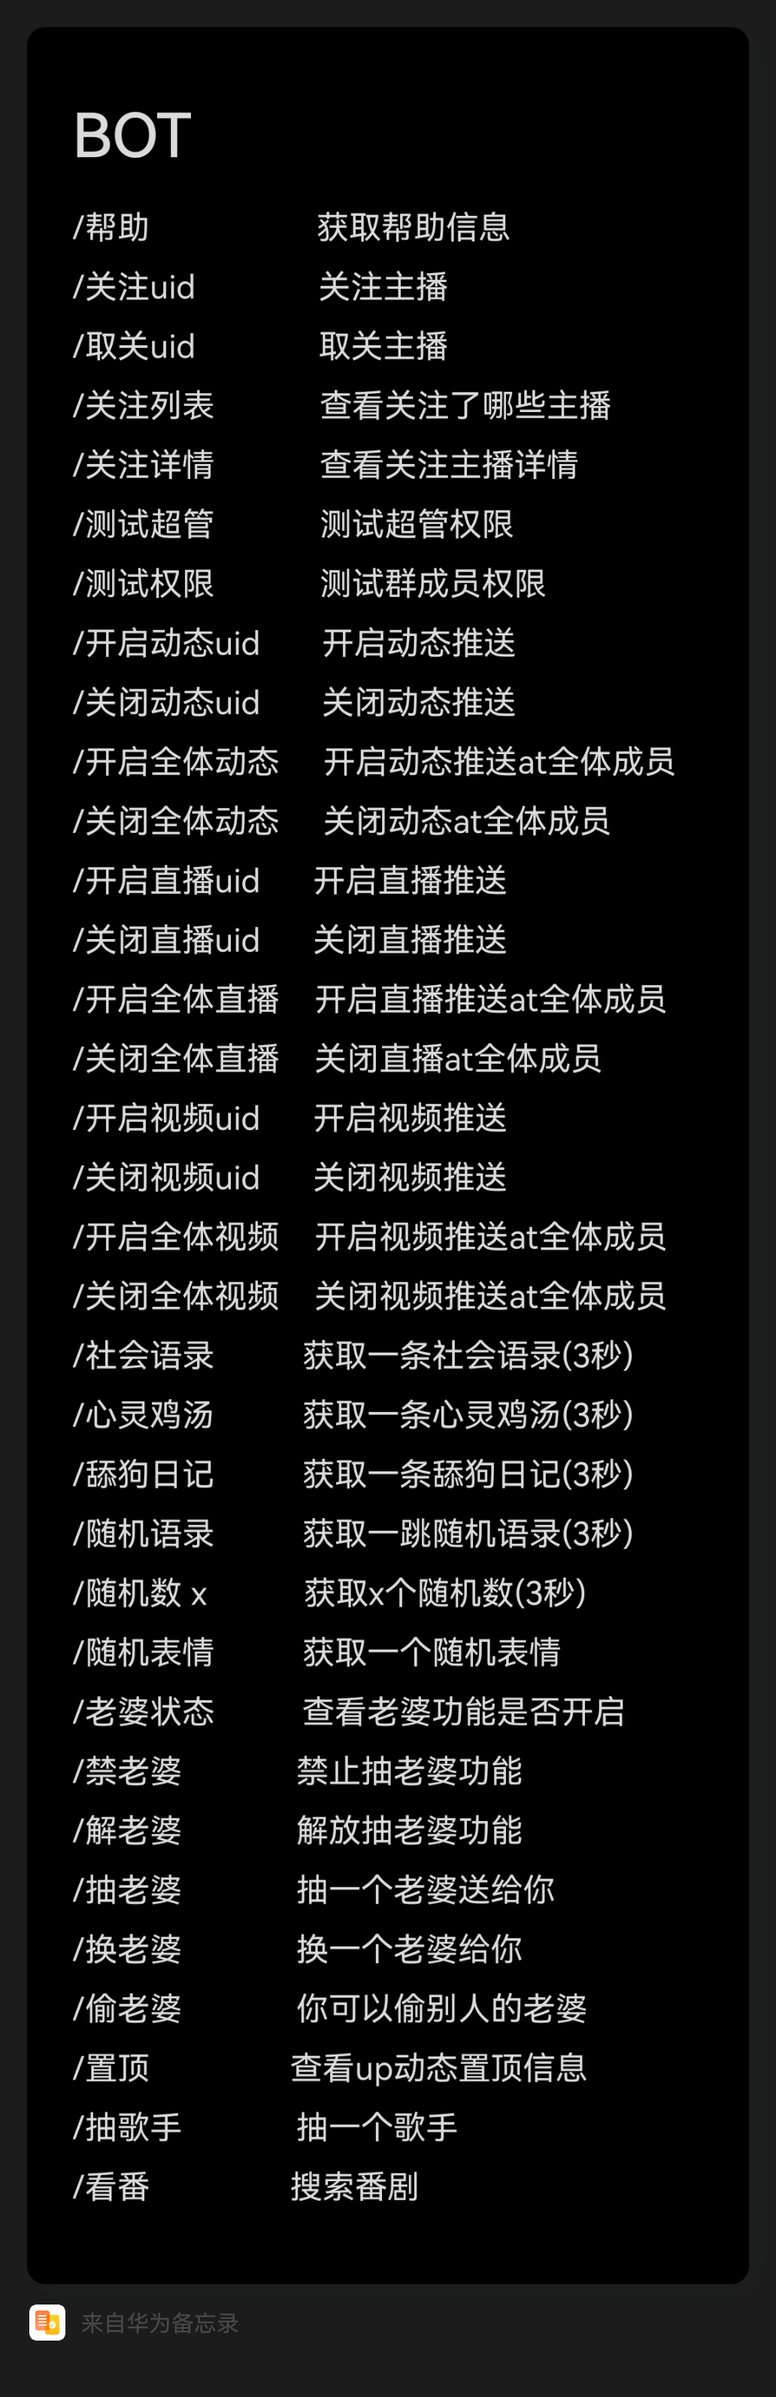
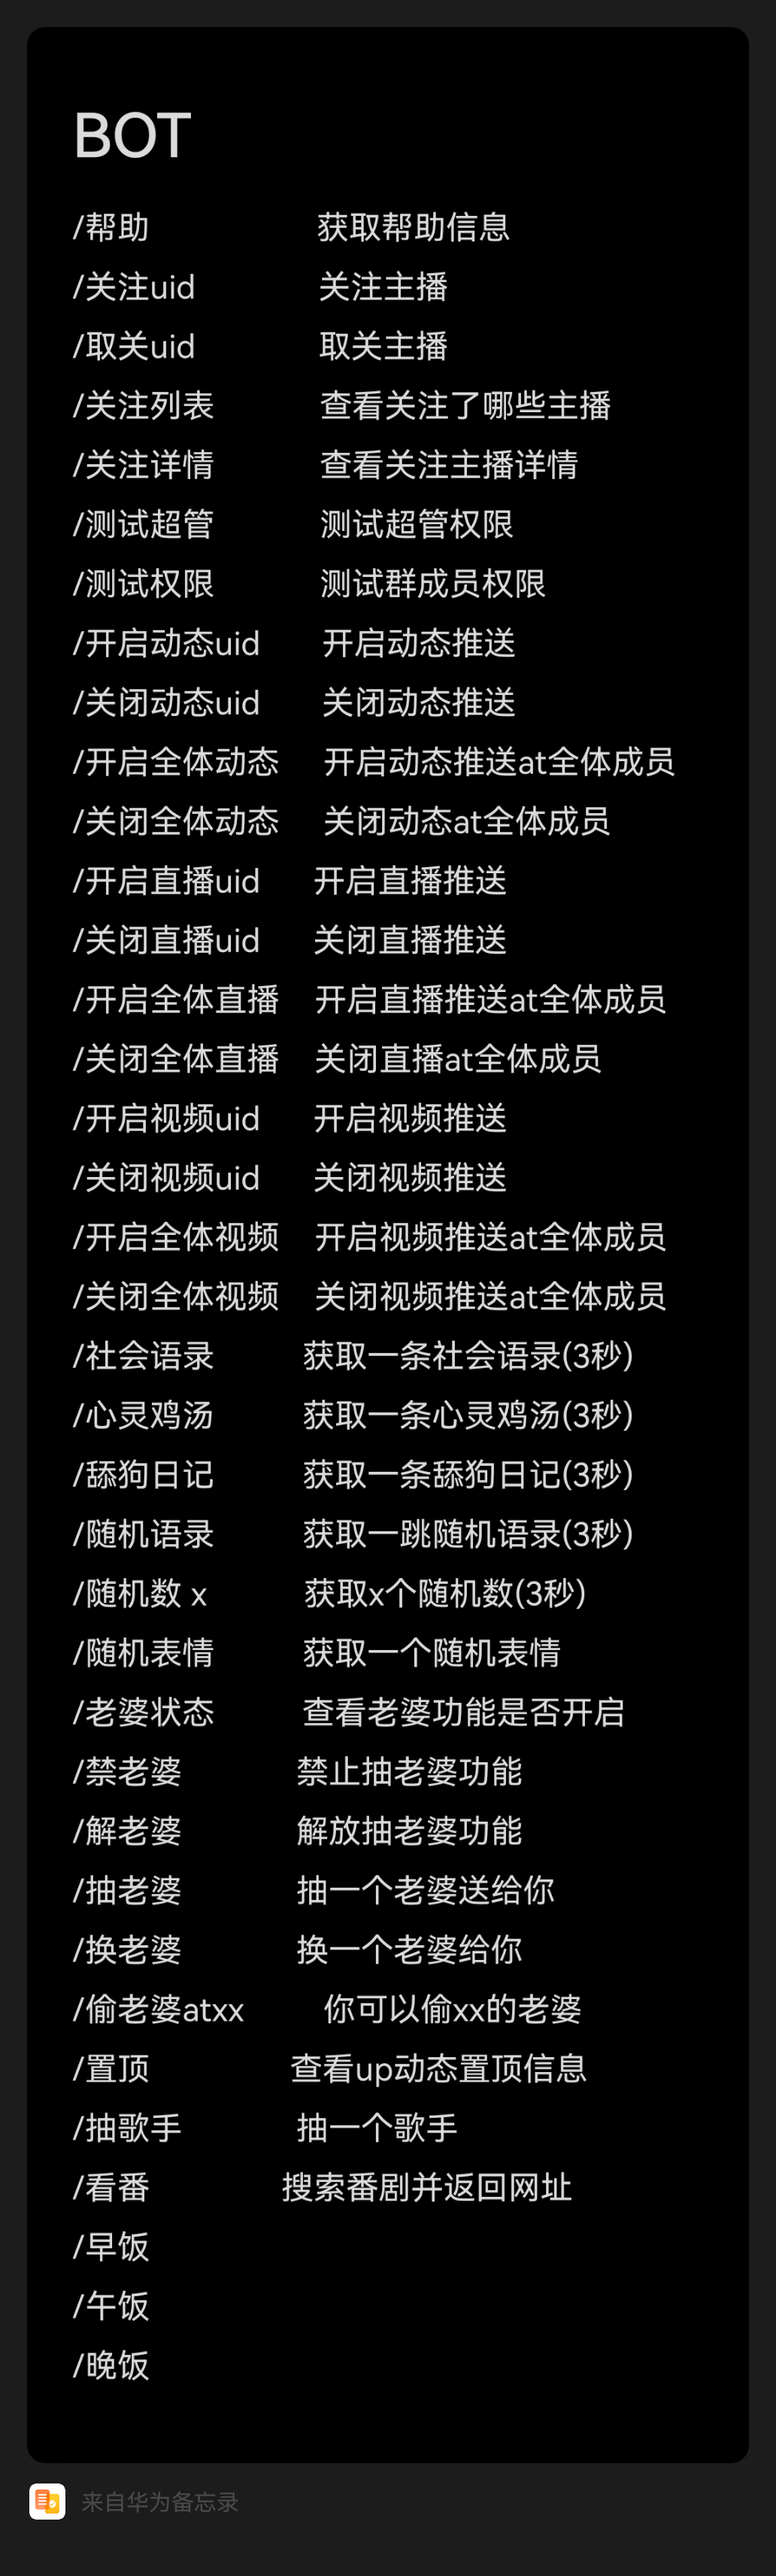
src

Changed region(s): [[0.031, 0.0311, 0.9302, 0.9937]]

diff --git a/bot2/plugins/funcs/whateat.py b/bot2/plugins/funcs/whateat.py
@@ -1,0 +1,61 @@
+#!/bin/env python
+# -*- coding: utf-8 -*-
+"""
+@time: 2022/11/3 20:20
+@author: 0xchang
+@E-mail: oxchang@163.com
+@file: whateat.py
+@Github: https://github.com/0xchang
+"""
+import random
+
+from nonebot.adapters.onebot.v11.message import Message
+from nonebot import on_command
+
+eatzaocmd = on_command('早饭', priority=281)
+
+
+@eatzaocmd.handle()
+async def songer_handle():
+    eats = ('煎饼果子', '水煎包', '皮蛋瘦肉粥', '咸鸭粥', '胡辣汤', '炸糖糕', '炸菜角', '鸡蛋灌饼', '灌汤包', '咸豆腐脑', '菜盒',
+            '油馍头', '肉夹馍', '烧麦', '豆浆油条', '土豆饼', '锅贴', '混沌', '肠粉', '羊杂汤')
+    eat0 = random.choice(eats)
+    eat1 = random.choice(eats)
+    eat2 = random.choice(eats)
+    eat = eat0 + ',' + eat1 + ',' + eat2
+    mess = '你现在是想吃' + eat + '吗[CQ:face,id=66]'
+    await eatzaocmd.finish(Message(mess))
+
+
+eatwucmd = on_command('午饭', priority=281)
+
+
+@eatwucmd.handle()
+async def songer_handle():
+    eats = ('咸烧白', '可乐鸡翅', '京酱肉丝', '梅菜扣肉', '锅包肉', '混沌', '鱼香肉丝', '毛血旺', '烤鸭',
+            '番茄炒蛋', '糖醋里脊', '红烧肉', '红烧排骨', '粉蒸排骨', '粉蒸牛肉', '清蒸鱼', '白灼生菜', '小鸡炖蘑菇',
+            '小葱拌豆腐', '红烧鸡翅', '清炖羊肉', '清炒西兰花', '香菇肉片', '猪肚炖鸡', '蒜末炒肉', '蒜蓉炒油麦菜', '腊肉炒豆角',
+            '酱焖黄花鱼', '红烧鸡肉', '辣炒肥肠', '清蒸大虾', '豆角炒肉', '白菜炖豆腐')
+    eat0 = random.choice(eats)
+    eat1 = random.choice(eats)
+    eat2 = random.choice(eats)
+    eat = eat0 + ',' + eat1 + ',' + eat2
+    mess = '你现在是想吃' + eat + '吗[CQ:face,id=66]'
+    await eatwucmd.finish(Message(mess))
+
+
+eatwancmd = on_command('晚饭', priority=281)
+
+
+@eatwancmd.handle()
+async def songer_handle():
+    eats = ('咸烧白', '可乐鸡翅', '京酱肉丝', '梅菜扣肉', '锅包肉', '混沌', '鱼香肉丝', '毛血旺', '烤鸭',
+            '番茄炒蛋', '糖醋里脊', '红烧肉', '红烧排骨', '粉蒸排骨', '粉蒸牛肉', '清蒸鱼', '白灼生菜', '小鸡炖蘑菇',
+            '小葱拌豆腐', '红烧鸡翅', '清炖羊肉', '清炒西兰花', '香菇肉片', '猪肚炖鸡', '蒜末炒肉', '蒜蓉炒油麦菜', '腊肉炒豆角',
+            '酱焖黄花鱼', '红烧鸡肉', '辣炒肥肠', '清蒸大虾', '豆角炒肉', '白菜炖豆腐')
+    eat0 = random.choice(eats)
+    eat1 = random.choice(eats)
+    eat2 = random.choice(eats)
+    eat = eat0 + ',' + eat1 + ',' + eat2
+    mess = '你现在是想吃' + eat + '吗[CQ:face,id=66]'
+    await eatwancmd.finish(Message(mess))

diff --git a/bot2/plugins/bili/alive.py b/bot2/plugins/bili/alive.py
@@ -13,8 +13,9 @@ from nonebot_plugin_apscheduler import scheduler
 from nonebot import get_bots
 from bot2.plugins.sql.select_sql import select_groupid
 
+
 #催早饭
-@scheduler.scheduled_job("cron", hour=8,minute=24)
+@scheduler.scheduled_job("cron", hour=8,minute=30)
 async def good_morning():
     bot, = get_bots().values()
     qqids=select_groupid()
@@ -23,7 +24,7 @@ async def good_morning():
         await bot.send_msg(
             message_type="group",
             group_id=qqid[0],
-            message='啥时候吃早饭?说的就是你'
+            message='亲爱的小宝贝，你吃早饭了吗[CQ:face,id=12]'
         )
 
 #催午饭
@@ -36,11 +37,11 @@ async def good_morning():
         await bot.send_msg(
             message_type="group",
             group_id=qqid[0],
-            message='吃午饭了吗?宝贝'
+            message='亲爱的大宝贝，你吃午饭了吗[CQ:face,id=24]'
         )
 
 #催晚饭
-@scheduler.scheduled_job("cron", hour=17,minute=20)
+@scheduler.scheduled_job("cron", hour=17,minute=30)
 async def good_night():
     bot, = get_bots().values()
     qqids=select_groupid()
@@ -49,5 +50,5 @@ async def good_night():
         await bot.send_msg(
             message_type="group",
             group_id=qqid[0],
-            message='你吃晚饭了没?不用我指名道姓吧'
+            message='亲爱的宝贝，你吃晚饭了吗[CQ:face,id=21]'
         )

diff --git a/bot2/plugins/xiuxian/Role.py b/bot2/plugins/xiuxian/Role.py
@@ -379,12 +379,12 @@ class XianRole:
             exp *= random.randint(2, 5) * self.level
             status = -1
         elif exp == 0:
-            if 0 == random.randint(0, 20):
+            if 0 == random.randint(0, 100):
                 self.level -= 1
                 status = -3
             else:
                 exp = -20
-                exp *= self.level * random.randint(2, 10)
+                exp *= self.level * random.randint(2, 5)
                 status = -2
         elif exp in (40, 41):
             exp = exp * random.randint(5, 8) * self.level // 8

diff --git a/bot2/plugins/xiuxian/uphm.py b/bot2/plugins/xiuxian/uphm.py
@@ -41,7 +41,7 @@ superuphmxian = on_command('超级回复', priority=241)
 async def infoxian_handle(event: Event):
     uid = event.get_user_id()
     u = XianRole(uid)
-    if u.upBigHPMP():
+    if u.upSuperHPMP():
         mess='恭喜你消耗2000灵石增加了5800HP,3800MP'
     else:
         mess='您的灵石不足'

diff --git a/bot2/plugins/help/helpmenu.py b/bot2/plugins/help/helpmenu.py
@@ -47,6 +47,9 @@ help_detail='''
 /置顶                查看up动态置顶信息
 /抽歌手             抽一个歌手
 /看番               搜索番剧并返回网址
+/早饭
+/午饭
+/晚饭
 '''
 helpmenu=on_command('帮助',priority=150)
 @helpmenu.handle()
